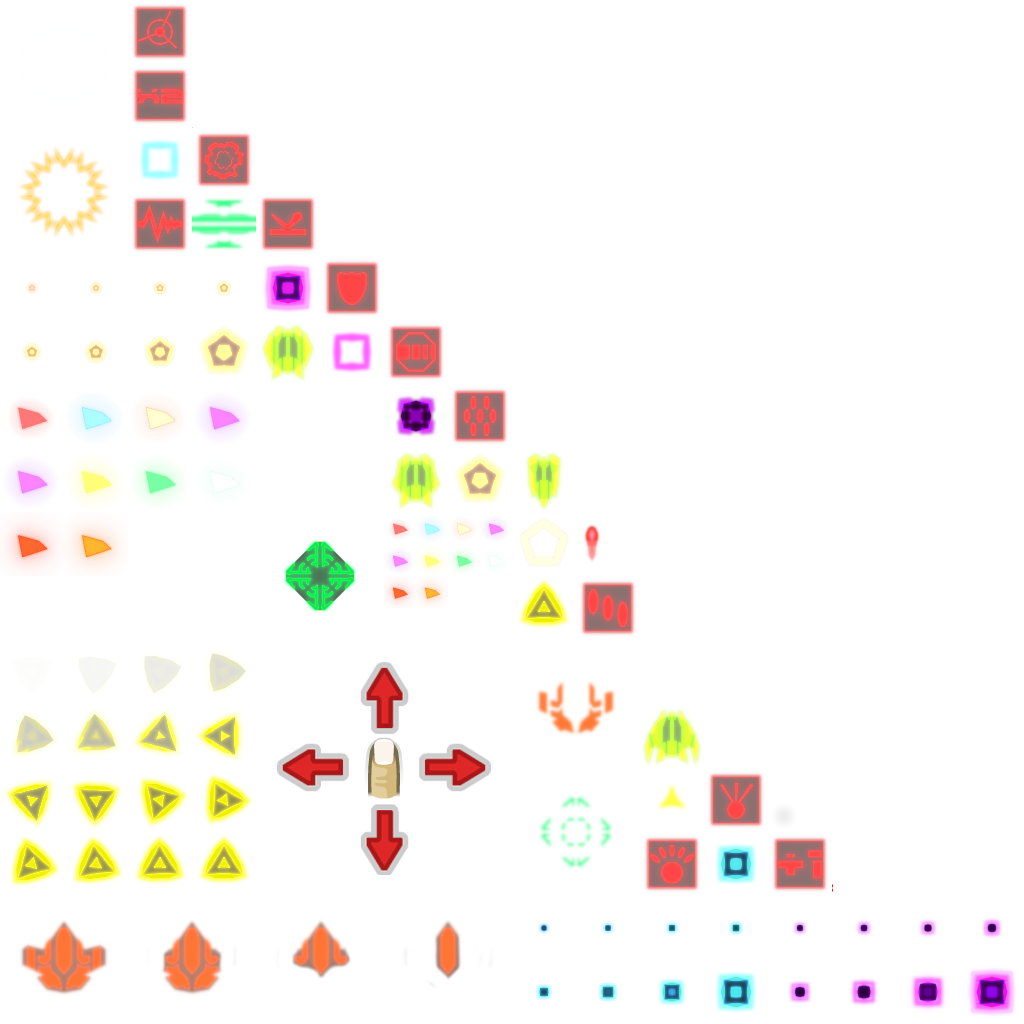
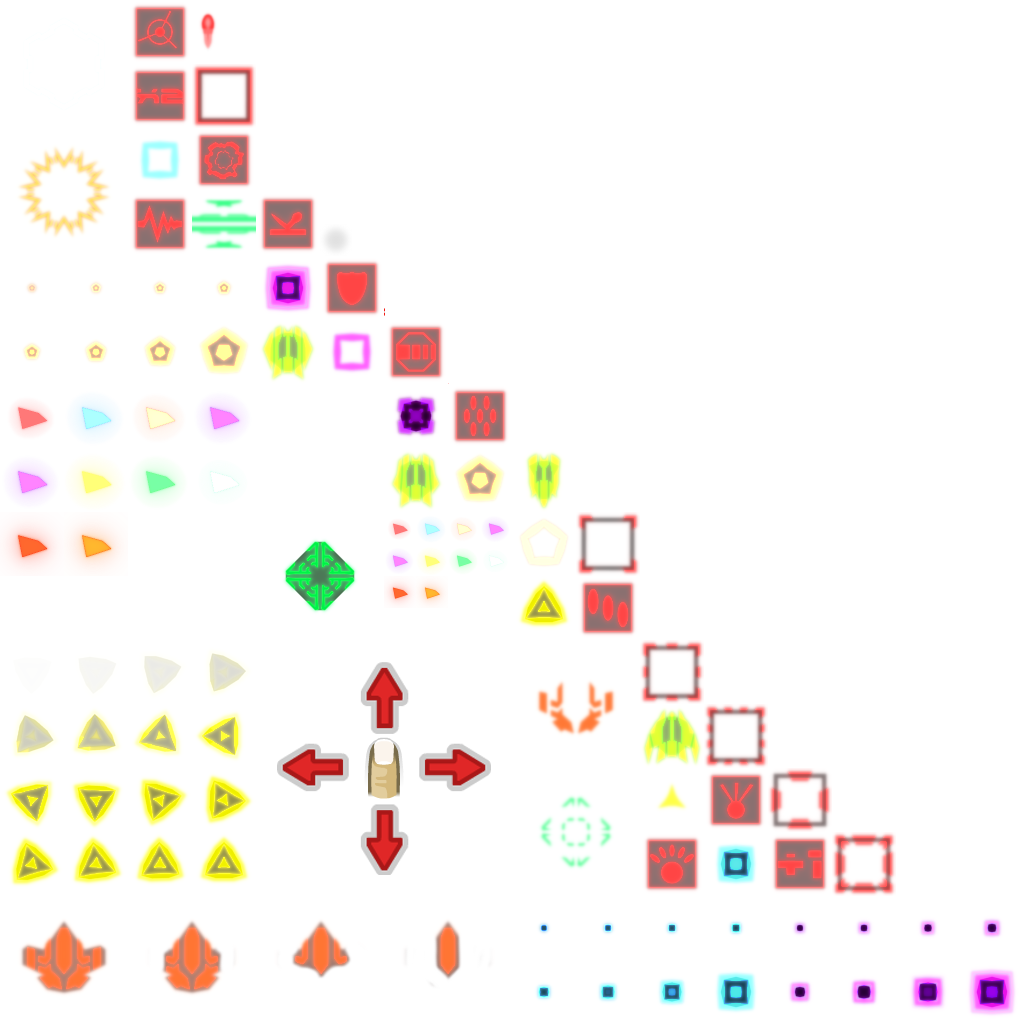
Changed to AtlasRegion in powerups and fixed some bugs

diff --git a/core/src/com/tint/specular/states/UpgradeState.java b/core/src/com/tint/specular/states/UpgradeState.java
@@ -9,6 +9,7 @@ import com.badlogic.gdx.graphics.GL20;
 import com.badlogic.gdx.graphics.Texture;
 import com.badlogic.gdx.graphics.g2d.BitmapFont;
 import com.badlogic.gdx.graphics.g2d.TextureAtlas;
+import com.badlogic.gdx.graphics.g2d.TextureAtlas.AtlasRegion;
 import com.badlogic.gdx.graphics.g2d.TextureRegion;
 import com.badlogic.gdx.graphics.g2d.freetype.FreeTypeFontGenerator;
 import com.badlogic.gdx.graphics.g2d.freetype.FreeTypeFontGenerator.FreeTypeFontParameter;
@@ -44,14 +45,7 @@ public class UpgradeState extends State {
 	private Stage stage;
 	private UpgradeList list;
 	private Upgrade[] upgrades = new Upgrade[9];
-	private static Texture[] upgradeLevels = {
-			new Texture(Gdx.files.internal("graphics/game/powerups/level 1.png")),
-			new Texture(Gdx.files.internal("graphics/game/powerups/level 2.png")),
-			new Texture(Gdx.files.internal("graphics/game/powerups/level 3.png")),
-			new Texture(Gdx.files.internal("graphics/game/powerups/level 4.png")),
-			new Texture(Gdx.files.internal("graphics/game/powerups/level 5.png")),
-			new Texture(Gdx.files.internal("graphics/game/powerups/level inf.png"))
-	};
+	private static AtlasRegion[] upgradeLevels;
 
 	private Label pointsLeftLabel;
 	
@@ -86,6 +80,13 @@ public class UpgradeState extends State {
 		UPFont.setColor(Color.RED);
 		
 		fontGen.dispose();
+		upgradeLevels = new AtlasRegion[6];
+		upgradeLevels[0] = ta.findRegion("game1/level 1");
+		upgradeLevels[1] = ta.findRegion("game1/level 2");
+		upgradeLevels[2] = ta.findRegion("game1/level 3");
+		upgradeLevels[3] = ta.findRegion("game1/level 4");
+		upgradeLevels[4] = ta.findRegion("game1/level 5");
+		upgradeLevels[5] = ta.findRegion("game1/level inf");
 	}
 
 	@Override
@@ -235,7 +236,7 @@ public class UpgradeState extends State {
 		upgradePoints = Specular.prefs.getFloat("Upgrade Points");
 	}
 	
-	public static Texture getUpgradeLevelTexture(float grade) {
+	public static AtlasRegion getUpgradeLevelTexture(float grade) {
 		if(grade > 0) {
 			if(grade < 2) {
 				return upgradeLevels[0];

diff --git a/android/src/com/tint/specular/android/AndroidLauncher.java b/android/src/com/tint/specular/android/AndroidLauncher.java
@@ -73,11 +73,11 @@ public class AndroidLauncher extends AndroidApplication {
 					public void call(final Session session, SessionState state, Exception exception) {
 						Log.i("Specular", state.toString());
 						//If logged in
-						if(state.equals(SessionState.OPENED) && fbuser != null) {
+						if(state.equals(SessionState.OPENED)) {
 							System.out.println("Opened");
 							
 							//Request user information
-							Request.newMeRequest(session, new Request.GraphUserCallback() {
+							final Request meRequest = Request.newMeRequest(session, new Request.GraphUserCallback() {
 								@Override
 								public void onCompleted(GraphUser user, Response response) {
 									
@@ -91,7 +91,13 @@ public class AndroidLauncher extends AndroidApplication {
 				                    	callback.failed();
 				                    }
 								}
-							}).executeAsync();
+							});
+							AndroidLauncher.this.runOnUiThread(new Runnable() {
+								@Override
+								public void run() {
+									meRequest.executeAsync();
+								}
+							});
 							
 						} else if(state.equals(SessionState.CLOSED) || state.equals(SessionState.CLOSED_LOGIN_FAILED)) {
 							fbuser = null;
@@ -119,11 +125,14 @@ public class AndroidLauncher extends AndroidApplication {
 			}
 
 			@Override
-			public boolean postHighscore(final int score) {
+			public boolean postHighscore(final int score, boolean requestPublishPermission) {
 				final Session session = Session.getActiveSession();
 				
 				//Checking for publish permissions
 				if(!session.getPermissions().contains("publish_actions")) {
+					if(!requestPublishPermission) {
+						return false;
+					}
 					final NewPermissionsRequest permissionRequest = new NewPermissionsRequest(activity, "publish_actions");
 					permissionRequest.setCallback(new StatusCallback() {
 						@Override

diff --git a/core/src/com/tint/specular/game/entities/UpgradeOrb.java b/core/src/com/tint/specular/game/entities/UpgradeOrb.java
@@ -42,17 +42,11 @@ public class UpgradeOrb implements Entity, Poolable {
 			
 			//Calculating angle and force
 			double angle = Math.atan2(gs.getPlayer().getY() - y, gs.getPlayer().getX() - x);
-			float dx = (float) (Math.cos(angle) * (radiusDist * 20 / dist));
-			float dy = (float) (Math.sin(angle) * (radiusDist * 20 / dist));
-			
-			// Add the force
-			if(this.dx * this.dx < dx * dx)
-				this.dx += dx;
-			if(this.dy * this.dy < dy * dy)
-				this.dy += dy;
+			dx += (float) (Math.cos(angle) * 1.4f);
+			dy += (float) (Math.sin(angle) * 1.4f);
 			
 			if(dist <= radiusDist) {
-				gs.getPlayer().addUpgradePoints(1f);
+				gs.getPlayer().addUpgradePoints(1);
 				return true;
 			}
 		}
@@ -60,8 +54,8 @@ public class UpgradeOrb implements Entity, Poolable {
 		// Movement
 		x += dx;
 		y += dy;
-		dx *= 0.97f;
-		dy *= 0.97f;
+		dx *= 0.93f;
+		dy *= 0.93f;
 		
 		// Bounce off borders, * 0.9f is for the amount of force the border absorbs
 		if(x - 20 - 18 < 0) {
@@ -91,8 +85,8 @@ public class UpgradeOrb implements Entity, Poolable {
 				Camera.getCameraY() - Specular.camera.viewportHeight / 2 * Camera.getZoom() - 100 < y &&
 				Camera.getCameraY() + Specular.camera.viewportHeight / 2 * Camera.getZoom() + 100 > y) {
 			
-			float alpha = Math.min((lifetime / 160f) * (lifetime / 160f), 1);
-			batch.setColor(1, 1, 1, alpha);
+			float size = Math.min((lifetime / 50f) * (lifetime / 50f), 1);
+			batch.setColor(1, 1, 1, size);
 			Util.drawCentered(batch, tex, x, y, 0);
 			batch.setColor(1, 1, 1, 1);
 		}
@@ -134,7 +128,7 @@ public class UpgradeOrb implements Entity, Poolable {
 		dx += initialDx;
 		dy += initialDy;
 		
-		lifetime = (float) (150 + Math.random() * 50);
+		lifetime = (float) (250 + Math.random() * 50);
 	}
 
 	@Override

diff --git a/core/src/com/tint/specular/ui/UpgradeList.java b/core/src/com/tint/specular/ui/UpgradeList.java
@@ -2,10 +2,10 @@ package com.tint.specular.ui;
 
 import com.badlogic.gdx.Gdx;
 import com.badlogic.gdx.graphics.Color;
-import com.badlogic.gdx.graphics.Texture;
 import com.badlogic.gdx.graphics.g2d.Batch;
 import com.badlogic.gdx.graphics.g2d.BitmapFont;
 import com.badlogic.gdx.graphics.g2d.SpriteBatch;
+import com.badlogic.gdx.graphics.g2d.TextureAtlas.AtlasRegion;
 import com.badlogic.gdx.graphics.g2d.freetype.FreeTypeFontGenerator;
 import com.badlogic.gdx.graphics.g2d.freetype.FreeTypeFontGenerator.FreeTypeFontParameter;
 import com.badlogic.gdx.math.Rectangle;
@@ -58,7 +58,7 @@ public class UpgradeList extends Widget implements Cullable, Disposable {
 	public void draw(Batch batch, float parentAlpha) {
 		float itemY = getHeight() - rowHeight;
 		float y = getY() + itemY + 20;
-		Texture levelTex = null;
+		AtlasRegion levelTex = null;
 		if(upgrades != null) {
 			for(int i = 0; i < upgrades.length; i++) {
 				y = getY() + itemY + 0;
@@ -70,7 +70,7 @@ public class UpgradeList extends Widget implements Cullable, Disposable {
 					
 					levelTex = UpgradeState.getUpgradeLevelTexture(upgrades[i].getGrade());
 					if(levelTex != null) {
-						batch.draw(levelTex, getX() + 64 + 40, y + 35, levelTex.getWidth() * 1.5f, levelTex.getHeight() * 1.5f);
+						batch.draw(levelTex, getX() + 64 + 40, y + 35, levelTex.getRegionWidth() * 1.5f, levelTex.getRegionHeight() * 1.5f);
 					}
 					
 					bars[i].draw(batch, parentAlpha);

diff --git a/core/src/com/tint/specular/map/Map.java b/core/src/com/tint/specular/map/Map.java
@@ -96,7 +96,7 @@ public class Map {
 	public void render(SpriteBatch batch, boolean light) {
 		batch.draw(texture, 0, 0);
 		
-		if(GfxSettings.setting >= GfxSettings.LOW) {
+		if(GfxSettings.setting > GfxSettings.LOW && light) {
 			batch.end();
 			
 			//Render masks to the framebuffer
@@ -136,7 +136,7 @@ public class Map {
 						
 			if(GfxSettings.BoardShockFx){
 				for(UpgradeOrb orb : gs.getOrbs()){
-					float alpha = Math.min((orb.getLifetime() / 160f) * (orb.getLifetime() / 160f) + 0.4f, 1);
+					float alpha = Math.min((orb.getLifetime() / 50f) * (orb.getLifetime() / 50f) + 0.4f, 1);
 					batch.setColor(1, 0.5f, 0.5f, alpha);
 					float size = GfxSettings.getOrbSize();
 					batch.draw(mask, orb.getX() - size / 2, fbo.getHeight() - orb.getY() - size / 2, size, size);
@@ -264,7 +264,7 @@ public class Map {
 			}
 			
 			for(UpgradeOrb Orbs : gs.getOrbs()) {
-				shapeRenderer.circle(Orbs.getX(), Orbs.getY(), 200);
+				shapeRenderer.rect(Orbs.getX() - 125, Orbs.getY() - 125, 250, 250);
 				
 			}
 			

diff --git a/core/src/com/tint/specular/game/powerups/Repulsor.java b/core/src/com/tint/specular/game/powerups/Repulsor.java
@@ -2,7 +2,6 @@ package com.tint.specular.game.powerups;
 
 import com.badlogic.gdx.Gdx;
 import com.badlogic.gdx.audio.Sound;
-import com.badlogic.gdx.graphics.Texture;
 import com.badlogic.gdx.graphics.g2d.SpriteBatch;
 import com.badlogic.gdx.graphics.g2d.TextureAtlas;
 import com.badlogic.gdx.graphics.g2d.TextureAtlas.AtlasRegion;
@@ -18,7 +17,7 @@ public class Repulsor extends PowerUp {
 	private static final float PUSHAWAY_RANGE = 500 * 500;
 	private static float maxActiveTime = 800;
 	private static AtlasRegion texture;
-	private static Texture levelTex;
+	private static AtlasRegion levelTex;
 	private Sound repulsorSound = Gdx.audio.newSound(Gdx.files.internal("audio/fx/RepulsorEffect.ogg"));	
 	
 	public Repulsor(float x, float y, GameState gs) {
@@ -88,7 +87,7 @@ public class Repulsor extends PowerUp {
 	}
 
 	@Override
-	public Texture getLevelTexture() {
+	public AtlasRegion getLevelTexture() {
 		return levelTex;
 	}
 }

diff --git a/core/src/com/tint/specular/game/powerups/SlowdownEnemies.java b/core/src/com/tint/specular/game/powerups/SlowdownEnemies.java
@@ -1,6 +1,5 @@
 package com.tint.specular.game.powerups;
 
-import com.badlogic.gdx.graphics.Texture;
 import com.badlogic.gdx.graphics.g2d.TextureAtlas;
 import com.badlogic.gdx.graphics.g2d.TextureAtlas.AtlasRegion;
 import com.tint.specular.game.GameState;
@@ -16,7 +15,7 @@ import com.tint.specular.states.UpgradeState;
 
 public class SlowdownEnemies extends PowerUp {
 	private static AtlasRegion texture;
-	private static Texture levelTex;
+	private static AtlasRegion levelTex;
 	private static boolean hasUpdatedSlowdown = false;
 	private static float freezeTime; // Ms
 	private float ticksFrozen; // Only handled in one slowdown
@@ -68,7 +67,7 @@ public class SlowdownEnemies extends PowerUp {
 	public static float getFreezeTime() { return freezeTime; }
 
 	@Override
-	public Texture getLevelTexture() {
+	public AtlasRegion getLevelTexture() {
 		return levelTex;
 	}
 }

diff --git a/core/src/com/tint/specular/game/powerups/BulletBurst.java b/core/src/com/tint/specular/game/powerups/BulletBurst.java
@@ -1,6 +1,5 @@
 package com.tint.specular.game.powerups;
 
-import com.badlogic.gdx.graphics.Texture;
 import com.badlogic.gdx.graphics.g2d.TextureAtlas;
 import com.badlogic.gdx.graphics.g2d.TextureAtlas.AtlasRegion;
 import com.tint.specular.game.GameState;
@@ -15,7 +14,7 @@ import com.tint.specular.states.UpgradeState;
 
 public class BulletBurst extends PowerUp {
 	private static AtlasRegion texture;
-	private static Texture levelTex;
+	private static AtlasRegion levelTex;
 	private static float maxActiveTime = 800;
 	
 	public BulletBurst(float x, float y, GameState gs) {
@@ -59,7 +58,7 @@ public class BulletBurst extends PowerUp {
 	}
 
 	@Override
-	public Texture getLevelTexture() {
+	public AtlasRegion getLevelTexture() {
 		return levelTex;
 	}
 }

diff --git a/core/src/com/tint/specular/game/powerups/BoardshockPowerUp.java b/core/src/com/tint/specular/game/powerups/BoardshockPowerUp.java
@@ -1,6 +1,5 @@
 package com.tint.specular.game.powerups;
 
-import com.badlogic.gdx.graphics.Texture;
 import com.badlogic.gdx.graphics.g2d.TextureAtlas;
 import com.badlogic.gdx.graphics.g2d.TextureAtlas.AtlasRegion;
 import com.tint.specular.game.GameState;
@@ -10,7 +9,7 @@ import com.tint.specular.states.UpgradeState;
 public class BoardshockPowerUp extends PowerUp {
 
 	private static AtlasRegion texture;
-	private static Texture levelTex;
+	private static AtlasRegion levelTex;
 
 	public BoardshockPowerUp(float x, float y, GameState gs) {
 		super(x, y, gs, -1);
@@ -39,7 +38,7 @@ public class BoardshockPowerUp extends PowerUp {
 	}
 
 	@Override
-	public Texture getLevelTexture() {
+	public AtlasRegion getLevelTexture() {
 		return levelTex;
 	}
 }

diff --git a/core/src/com/tint/specular/game/powerups/ScoreMultiplier.java b/core/src/com/tint/specular/game/powerups/ScoreMultiplier.java
@@ -1,6 +1,5 @@
 package com.tint.specular.game.powerups;
 
-import com.badlogic.gdx.graphics.Texture;
 import com.badlogic.gdx.graphics.g2d.TextureAtlas;
 import com.badlogic.gdx.graphics.g2d.TextureAtlas.AtlasRegion;
 import com.tint.specular.game.GameState;
@@ -15,7 +14,7 @@ import com.tint.specular.states.UpgradeState;
 
 public class ScoreMultiplier extends PowerUp {
 	private static AtlasRegion texture;
-	private static Texture levelTex;
+	private static AtlasRegion levelTex;
 	
 	public ScoreMultiplier(float x, float y, GameState gs) {
 		super(x, y, gs, -1);
@@ -44,7 +43,7 @@ public class ScoreMultiplier extends PowerUp {
 	}
 
 	@Override
-	public Texture getLevelTexture() {
+	public AtlasRegion getLevelTexture() {
 		return levelTex;
 	}
 }

diff --git a/core/src/com/tint/specular/game/powerups/ShieldPowerUp.java b/core/src/com/tint/specular/game/powerups/ShieldPowerUp.java
@@ -1,6 +1,5 @@
 package com.tint.specular.game.powerups;
 
-import com.badlogic.gdx.graphics.Texture;
 import com.badlogic.gdx.graphics.g2d.TextureAtlas;
 import com.badlogic.gdx.graphics.g2d.TextureAtlas.AtlasRegion;
 import com.tint.specular.game.GameState;
@@ -14,7 +13,7 @@ import com.tint.specular.game.entities.Player;
 
 public class ShieldPowerUp extends PowerUp {
 	private static AtlasRegion texture;
-	private static Texture levelTex;
+	private static AtlasRegion levelTex;
 	
 	public ShieldPowerUp(float x, float y, GameState gs) {
 		super(x, y, gs, -1);
@@ -39,7 +38,7 @@ public class ShieldPowerUp extends PowerUp {
 	}
 
 	@Override
-	public Texture getLevelTexture() {
+	public AtlasRegion getLevelTexture() {
 		return levelTex;
 	}
 }

diff --git a/core/src/com/tint/specular/game/powerups/Ricochet.java b/core/src/com/tint/specular/game/powerups/Ricochet.java
@@ -1,6 +1,5 @@
 package com.tint.specular.game.powerups;
 
-import com.badlogic.gdx.graphics.Texture;
 import com.badlogic.gdx.graphics.g2d.TextureAtlas;
 import com.badlogic.gdx.graphics.g2d.TextureAtlas.AtlasRegion;
 import com.tint.specular.game.GameState;
@@ -11,7 +10,7 @@ import com.tint.specular.states.UpgradeState;
 public class Ricochet extends PowerUp {
 
 	private static AtlasRegion texture;
-	private static Texture levelTex;
+	private static AtlasRegion levelTex;
 	private static int addBounces = 1;
 	
 	public Ricochet(float x, float y, GameState gs) {
@@ -50,7 +49,7 @@ public class Ricochet extends PowerUp {
 	}
 
 	@Override
-	public Texture getLevelTexture() {
+	public AtlasRegion getLevelTexture() {
 		return levelTex;
 	}
 }
